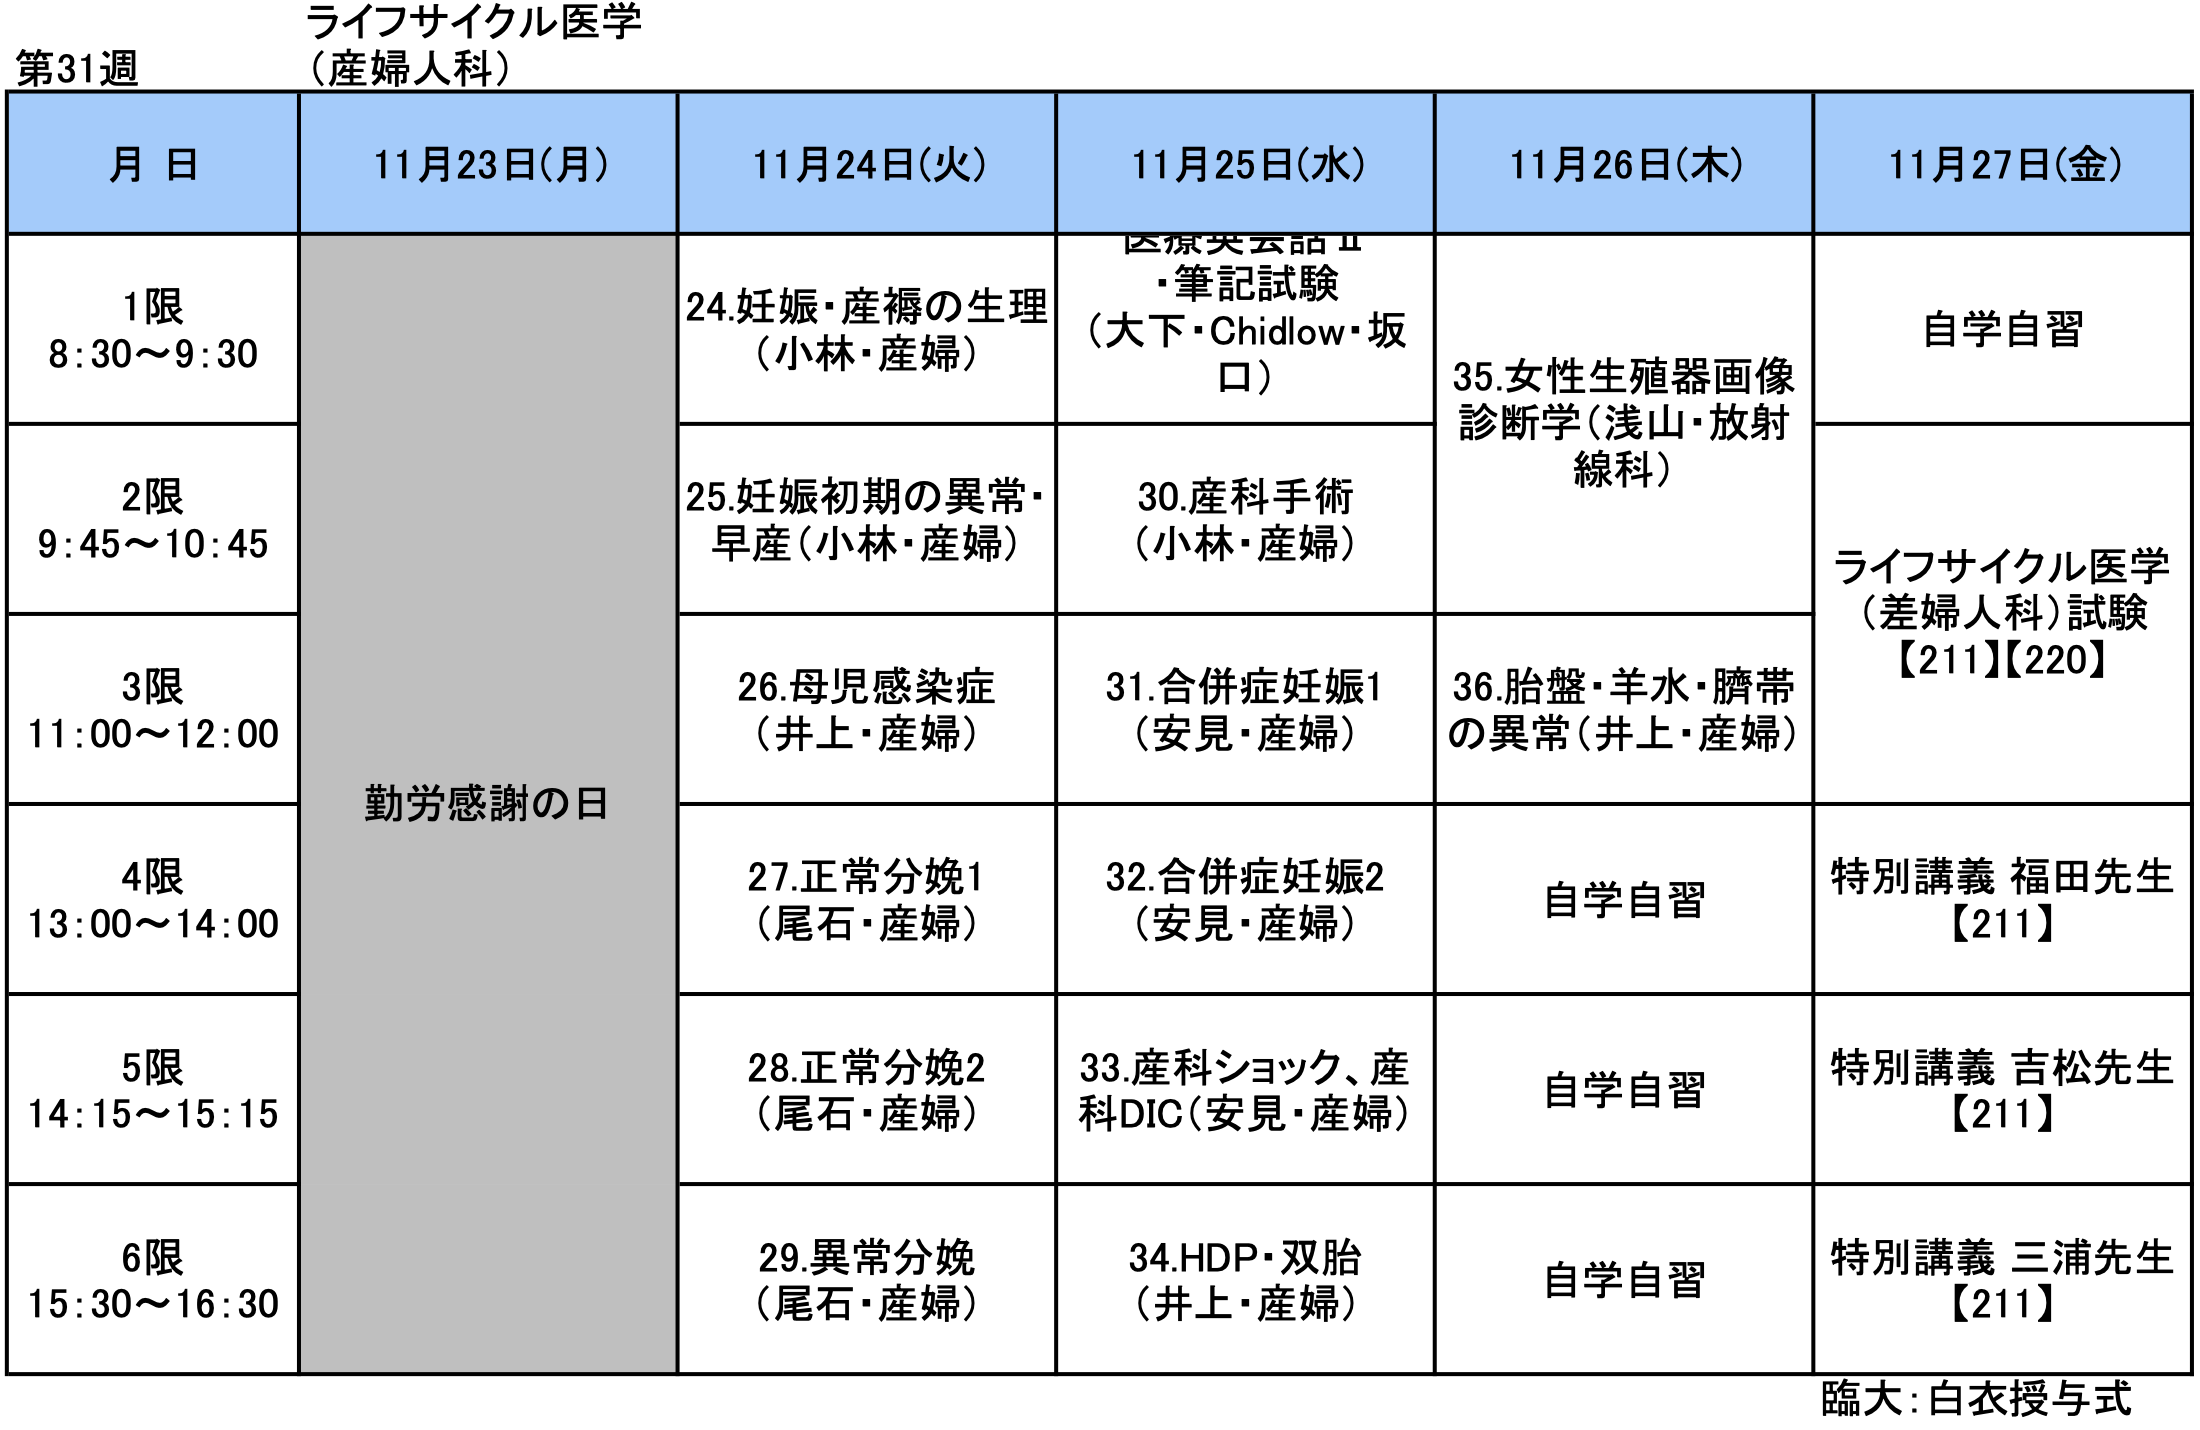
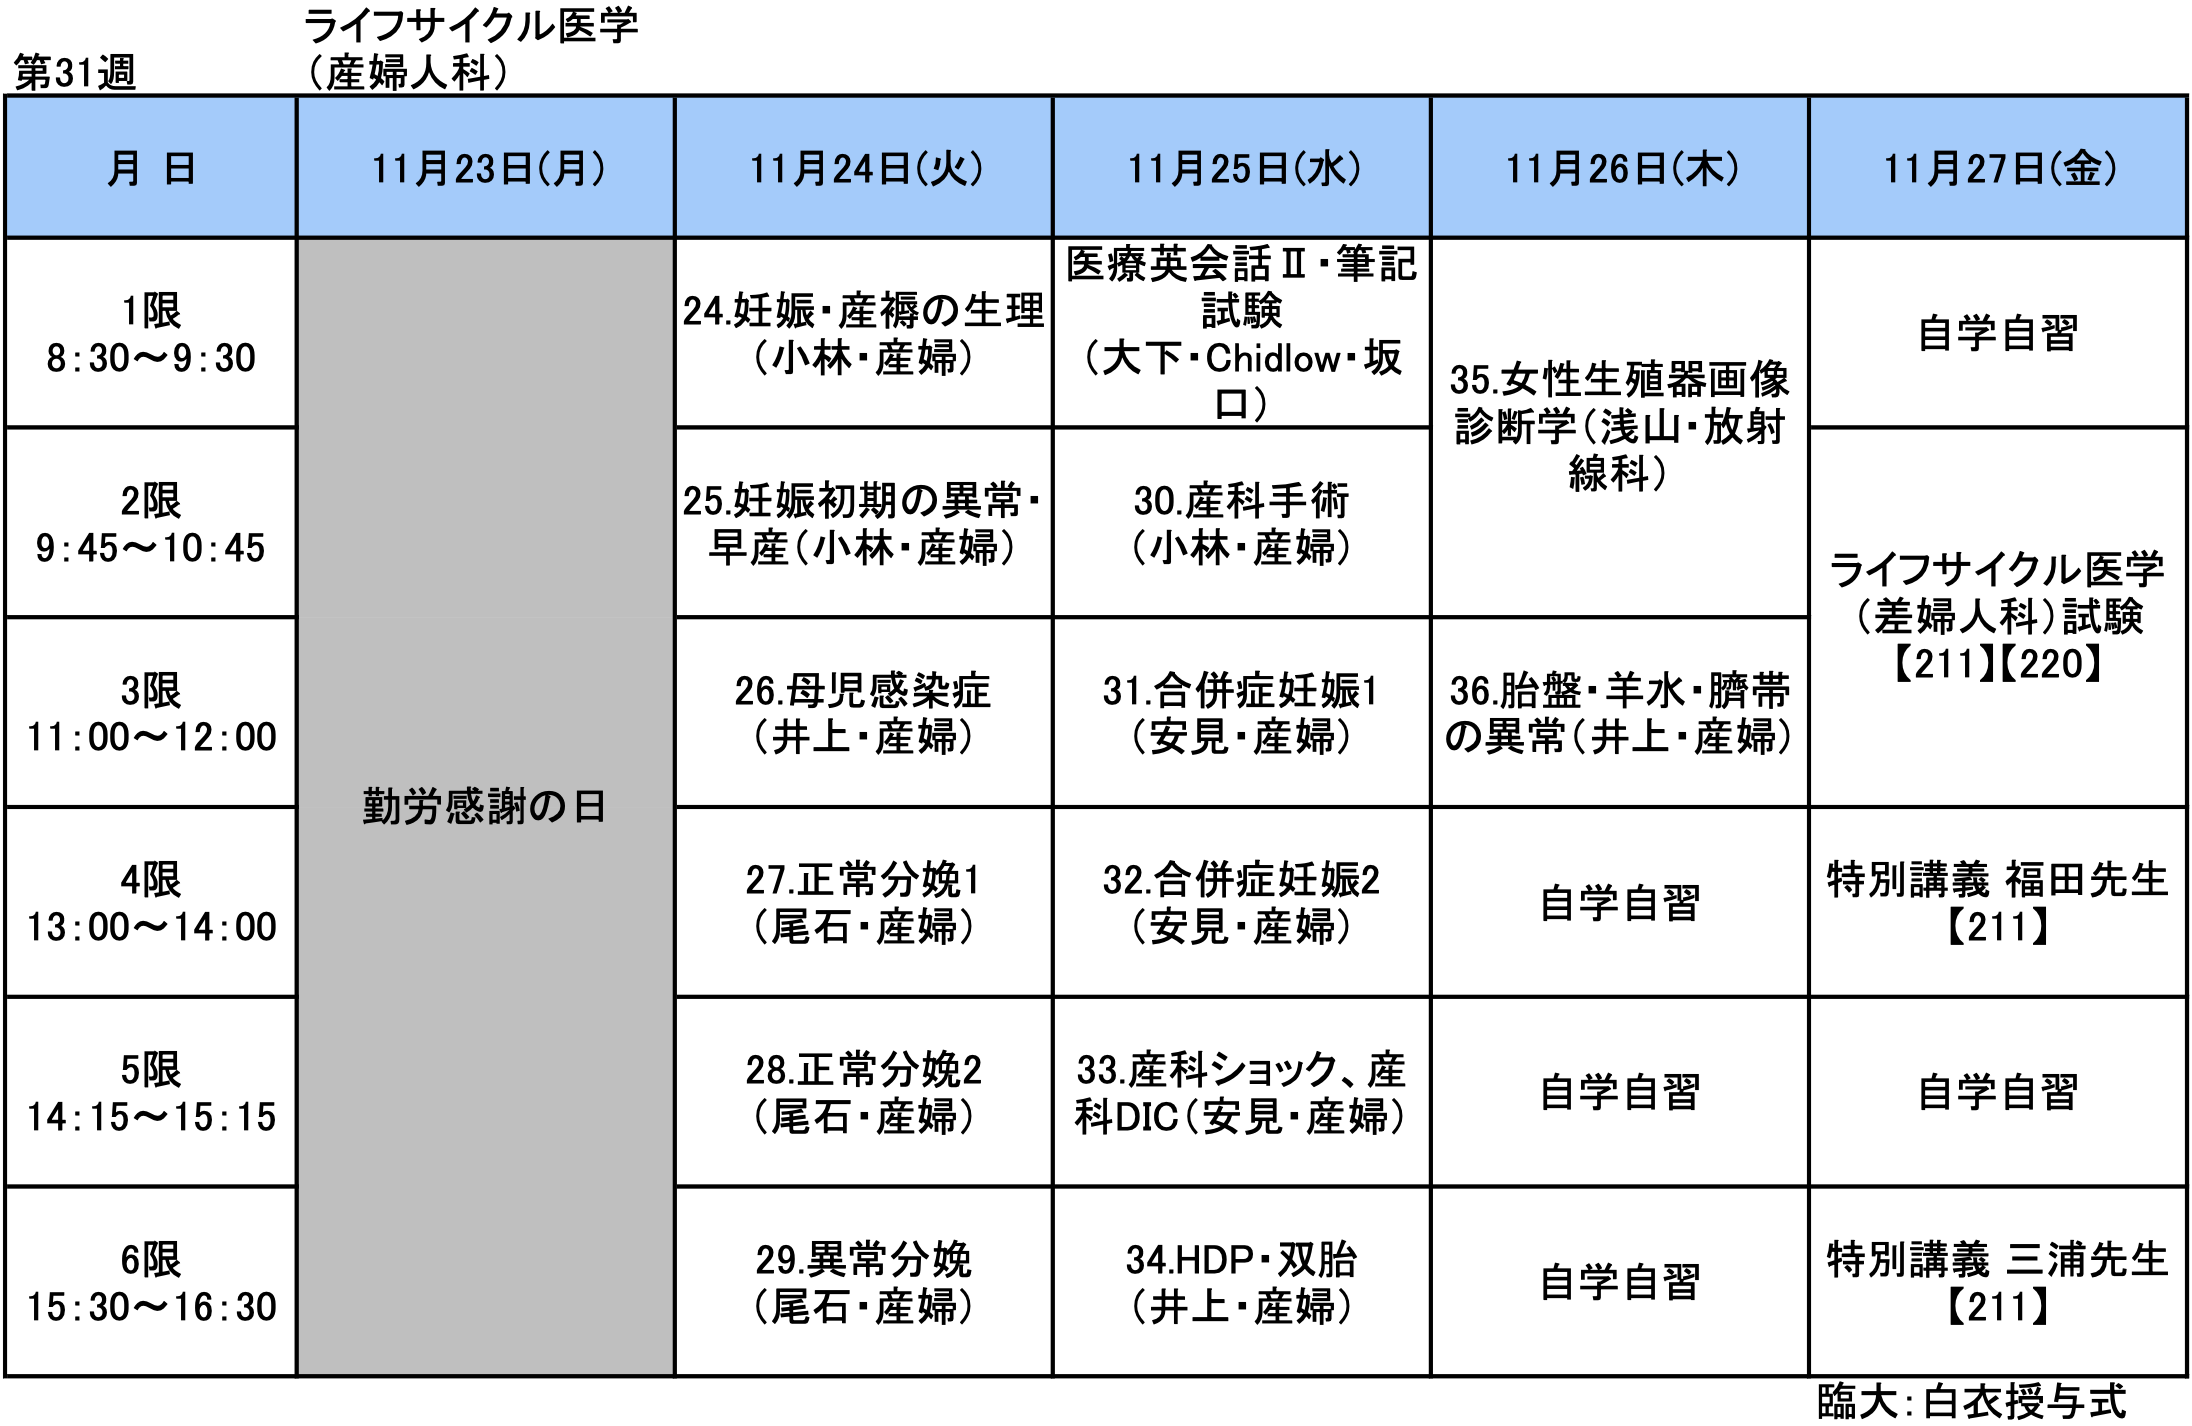
時間割変更 試験予定更新

diff --git a/index.html b/index.html
@@ -30,7 +30,7 @@
         </h1>
     </header>
     <main class="page-content">
-    <h3 class="top-object">今週の時間割（7月13日更新）</h3>
+    <h3 class="top-object">今週の時間割（8月20日更新）</h3>
     <div id="nav">
         <button id="prev">&lt;前の週</button>
         <button id="next">次の週&gt;</button>
@@ -138,7 +138,7 @@
     </div>
     </main>
     <script>
-        const IMG_VERSION = "2026-07-13";
+        const IMG_VERSION = "2026-08-20";
         const today = new Date();
         let offset = 0;
 

diff --git a/25/index.html b/25/index.html
@@ -111,11 +111,11 @@ table th, table td {
             <td>8月18日（火）<br>13:00~<br>8月19日（水）<br>8:30~</td>
             <td>生理学 口頭試問<br>（出席番号後半）</td>
         </tr>
-        -->
         <tr>
             <td>8月26日（水）<br>10:00~</td>
             <td>生理学 筆記試験</td>
         </tr>
+        -->
         <tr>
             <td>9月11日（金）<br>8:30~</td>
             <td>組織学各論 実習試験</td>
